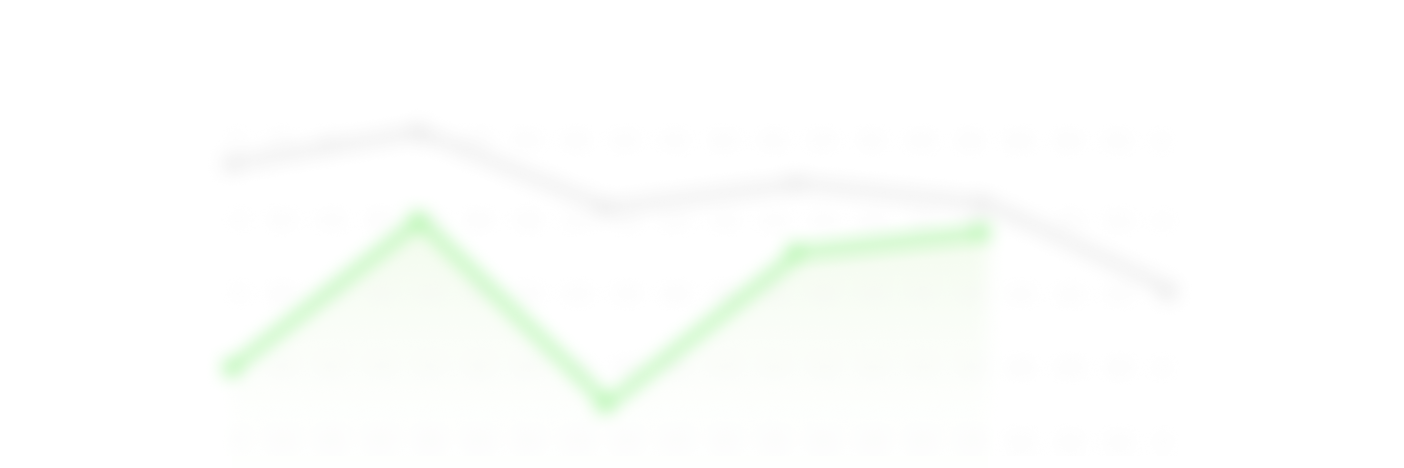
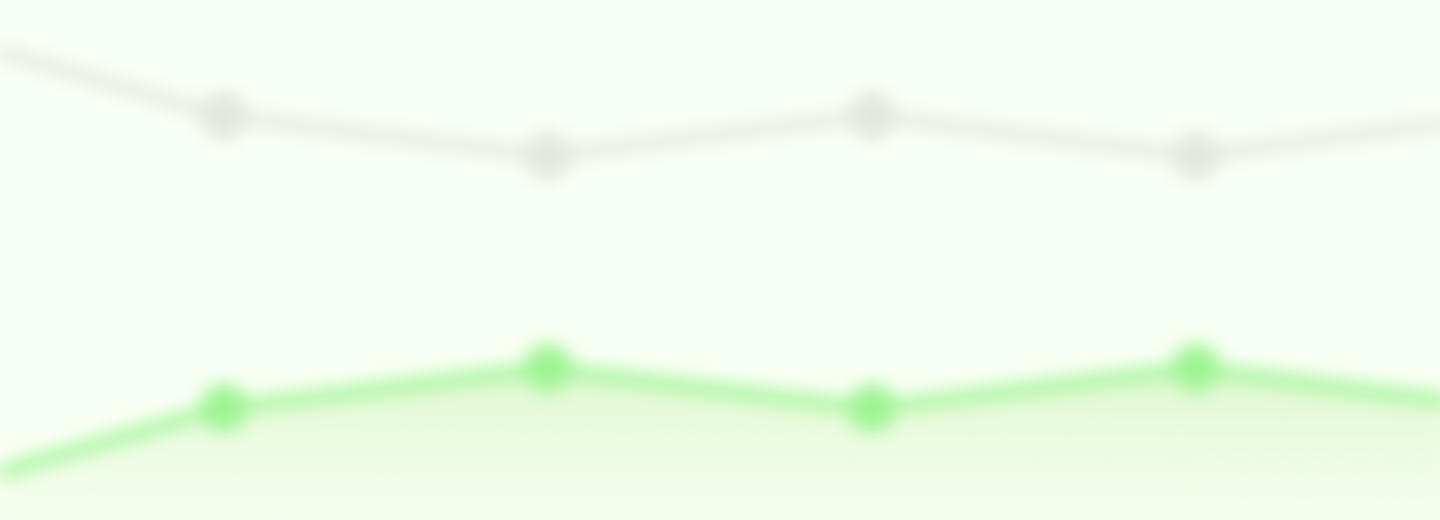
fix: 그래프 fill, 정보 없을때 이미지 수정,  파워 입력 버튼 수정

diff --git a/src/app/_component/power/Graph.tsx b/src/app/_component/power/Graph.tsx
@@ -108,7 +108,7 @@ const Graph: React.FC<GraphProps> = ({ data, isBillGraph = true }) => {
   const noData =
     thisYearData.every(value => value === null) && lastYearData.every(value => value === null);
 
-  const labels = getLast12Months(noData ? 4 : 12); // 데이터가 없을때
+  const labels = getLast12Months(noData ? 9 : 12); // 데이터가 없을때
   const displayedData = noData ? Array(4).fill(null) : { thisYearData, lastYearData };
 
   const chartData: ChartData<"line"> = {
@@ -119,7 +119,8 @@ const Graph: React.FC<GraphProps> = ({ data, isBillGraph = true }) => {
           {
             label: dataSetLabel,
             data: thisYearData,
-            fill: false,
+            fill: true,
+            backgroundColor: "rgba(25, 228, 7, 0.2)",
             borderColor: "#19E407",
             borderWidth: 3,
             pointRadius: 5,
@@ -193,8 +194,7 @@ const Graph: React.FC<GraphProps> = ({ data, isBillGraph = true }) => {
     scales: {
       x: {
         ticks: { font: { size: 10 }, maxRotation: 0, minRotation: 0 },
-        grid: { display: false },
-        border: { color: "#5E5E5E", width: 2 }
+        grid: { display: false }
       },
       y: {
         ticks: { display: false },
@@ -227,12 +227,11 @@ const Graph: React.FC<GraphProps> = ({ data, isBillGraph = true }) => {
               priority
               style={{
                 position: "absolute",
-                top: -30,
+                top: 0,
                 left: 0,
                 zIndex: 1,
                 width: "100%",
-                height: "100%",
-                objectFit: "cover"
+                height: "100%"
               }}
             />
             <div

diff --git a/src/app/_component/power/PowerInput.tsx b/src/app/_component/power/PowerInput.tsx
@@ -1,7 +1,6 @@
 import React from "react";
 import { useRouter } from "next/navigation";
 import styles from "./power.common.module.css";
-import Box from "@/components/Box";
 
 export default function NowPower() {
   const router = useRouter();
@@ -11,15 +10,10 @@ export default function NowPower() {
   };
 
   return (
-    <div className={styles.wrap}>
-      <Box>
-        <div className={styles.powerinput}>
-          <p className={styles.text_normal}>내 파워를 입력해주세요!</p>
-          <button className={styles.btn} onClick={handleNavigate}>
-            입력하러 가기
-          </button>
-        </div>
-      </Box>
+    <div className={styles.btnWrap}>
+      <button className={styles.powerBtn} onClick={handleNavigate}>
+        파워 입력하기
+      </button>
     </div>
   );
 }

diff --git a/src/app/(common-layout)/power/page.tsx b/src/app/(common-layout)/power/page.tsx
@@ -2,19 +2,17 @@
 import React from "react";
 
 import PowerInput from "../../_component/power/PowerInput";
-import AICharge from "../../_component/power/AICharge";
+import ExpectPreCost from "../../_component/power/ExpectPreCost";
 import GraphCharge from "../../_component/power/GraphCharge";
-import PreCharge from "../../_component/power/PreCharge";
 
 export default function Power() {
   return (
     <div
       style={{ height: "100vh", overflowY: "scroll", paddingBottom: "10rem", marginTop: "4rem" }}
     >
-      <PowerInput />
-      <AICharge />
       <GraphCharge />
-      <PreCharge />
+      <PowerInput />
+      <ExpectPreCost />
     </div>
   );
 }

diff --git a/src/app/_component/power/graph.common.module.css b/src/app/_component/power/graph.common.module.css
@@ -1,5 +1,6 @@
 .topContainer {
   display: flex;
+  flex-direction: column;
   align-items: center;
   justify-content: space-between;
 
@@ -39,9 +40,10 @@
 
 .btnContainer {
   display: flex;
-  justify-content: space-between;
-
   width: 14.3rem;
+  gap: 1.7rem;
+  width: 100%;
+  margin-bottom: 2.5rem;
 }
 
 /* 범례 */
@@ -49,8 +51,9 @@
   display: flex;
   flex-direction: column;
   justify-content: space-between;
-
+  align-items: end;
   height: 2.8rem;
+  width: 100%;
 }
 
 .yearUnit {
@@ -83,6 +86,6 @@
   background-color: #c4c4c4;
 }
 .graphBox {
-  width: 318px;
+  width: 320px;
   padding: 1.6em 1.2em;
 }

diff --git a/src/app/_component/power/power.common.module.css b/src/app/_component/power/power.common.module.css
@@ -44,7 +44,26 @@
 
   cursor: pointer;
 }
+.powerBtn {
+  text-align: center;
+  cursor: pointer;
 
+  width: 27.7rem;
+  height: 3.8rem;
+  background-color: #19e407;
+  color: #fff;
+  border: none;
+  border-radius: 15px;
+  font-size: 1.6rem;
+  font-weight: 600;
+}
+.btnWrap {
+  display: flex;
+  flex-direction: column;
+  justify-items: center;
+  align-items: center;
+  margin-top: 3rem;
+}
 /* 기본 폰트 */
 .text_normal {
   font-family: Pretendard;

diff --git a/src/app/_component/power/ExpectPreCost.tsx b/src/app/_component/power/ExpectPreCost.tsx
@@ -1,0 +1,11 @@
+import React from "react";
+
+export default function ExpectPreCost() {
+  return (
+    <>
+      <div>
+        <p>ㅇㅇㅇ님의 다음 전기요금은...</p>
+      </div>
+    </>
+  );
+}
